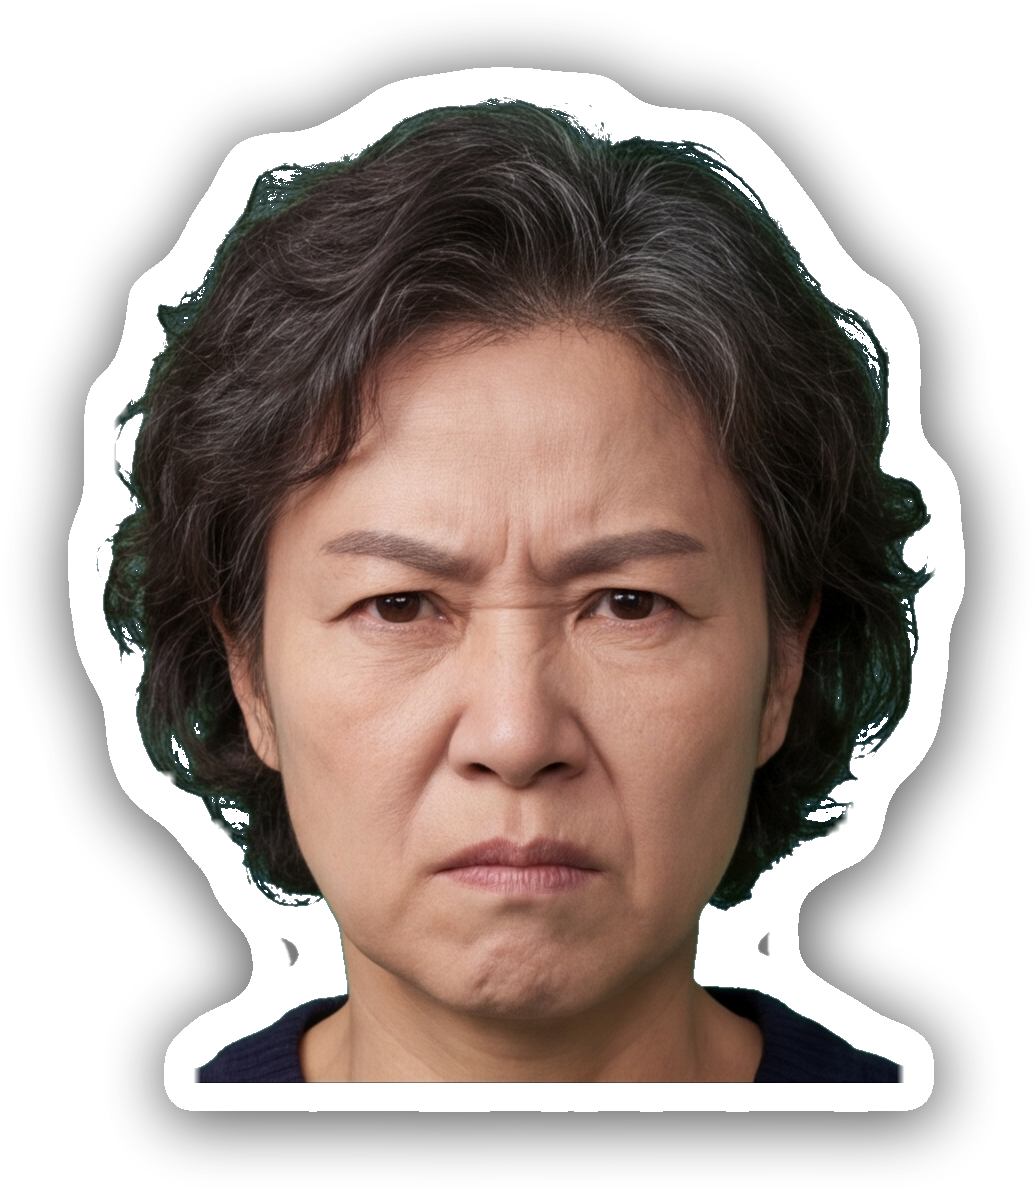
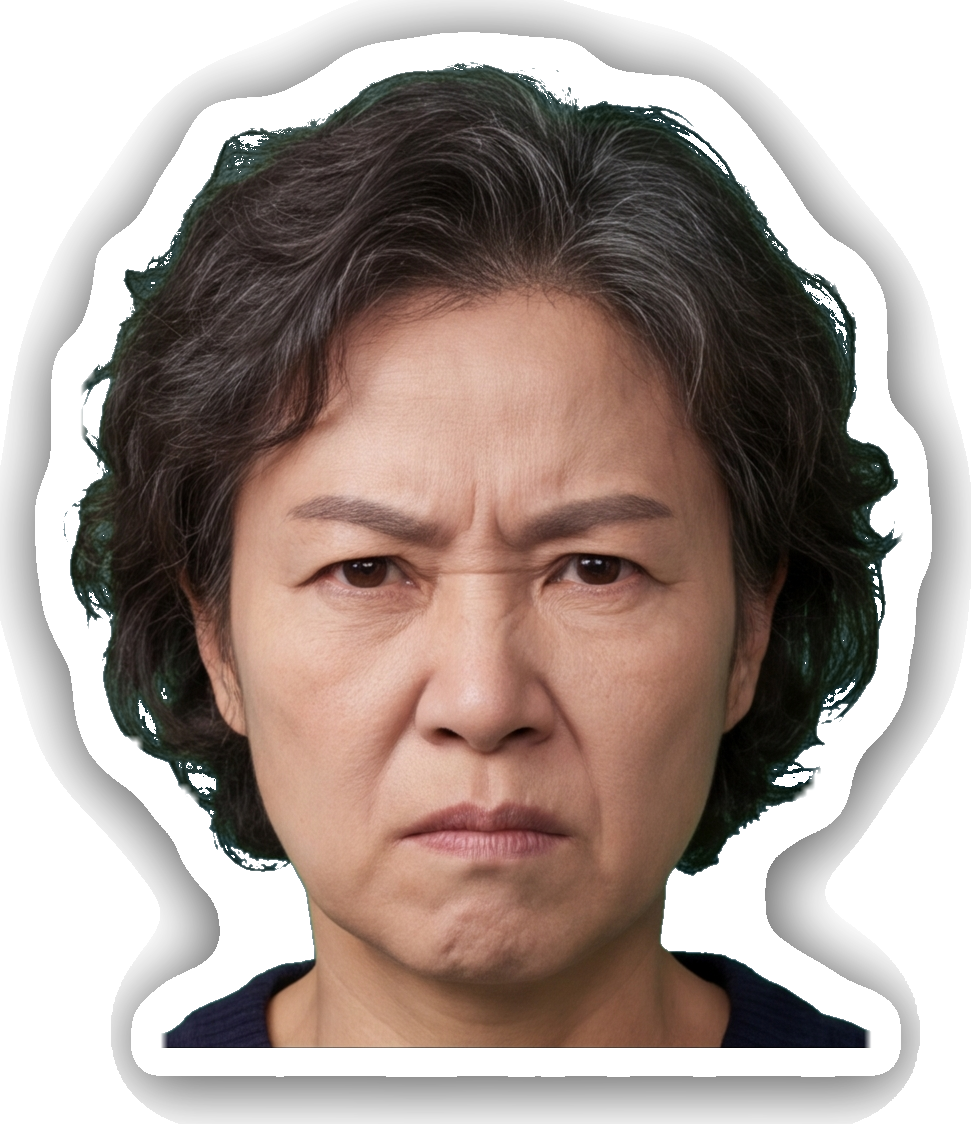
남아 있던 뾰족이의 진짜 원인 — 테두리 안에 박힌 '떨어져 나온 조각'
지난번 수정(어깨를 수평으로 자르기)으로도 뾰족한 것이 남았다.
손님이 동그라미 쳐 보낸 자리를 4배로 확대해 재 보니 원인이 달랐다.

원인
    M50B/bust_neutral 왼쪽 아래에 **가로 14 · 세로 51 픽셀짜리 짙은 조각**이,
    몸(x≥96)과 완전히 떨어진 자리(x≤79)에 박혀 있었다. 인물 시트에서 옆 사람
    옷자락이 딸려온 것이다. 38장 중 23장에 있었다.

    왜 지금까지 못 잡았나
      · 알파(투명도)만 보면 **흰 테두리가 조각과 몸통을 이어 붙여** 한 덩어리로
        보인다. 흰색을 빼고 봐야 갈라진다.
      · 테두리 두께를 실제로 재 보니 **70픽셀(키의 7%)** 이었다. 코드에 적혀
        있던 3% 는 짐작값이었다. 조각은 그 테두리 띠 **안쪽**에 들어앉아 있어서,
        '조각 주변을 오려낸다' 는 방법 자체가 통하지 않았다.

고친 것
    · drop_fragments — 흰색을 뺀 알맹이로 덩어리를 갈라 조각을 찾고,
      테두리색으로 **덮은 뒤**, 불거진 실루엣을 몸 기준으로 되돌린다.
    · 테두리 두께를 그림마다 **직접 잰다**(_outline_px). 짐작으로 잘랐다가
      11만 픽셀을 날린 적이 있어 다시는 코드에 박지 않는다.
    · 한 번으로 안 끝난다 — 큰 조각을 덮으면 가려 있던 작은 조각이 드러난다.
      한 그림당 최대 4번 돌려 다 털어낸다(실측 23장 → 1장 → 0장).

예방조치
    · despike.py --check — 고치지 않고 검사만 하고, 남아 있으면 실패로 끝낸다.
    · produce.yml 의 '화면 배치 검사'(실패하면 영상을 만들지 않는 자리)에 넣었다.
      → 다음 회차부터 뾰족이가 남아 있으면 **영상이 아예 만들어지지 않는다.**

확인
    · 23장 정리 · 검사 통과(0건) · 전신 그림은 발 밑 티끌만 빠지고 몸은 그대로
    · 손님이 동그라미 친 컷(A1-17)을 다시 그려 7배로 확대해 확인
    · 화면 배치 8항목 0건 · 컷 114개 화면 밖 이탈 없음 · 대본 45통과 0오류

Claude-Session: https://claude.ai/code/session_01Tx9MBSofUG9SuyhsNuhdXy

diff --git a/src/despike.py b/src/despike.py
@@ -1,19 +1,23 @@
 #!/usr/bin/env python3
-"""컷아웃 어깨에 솟은 조각을 없앤다.
+"""인물 컷아웃에서 **뾰족하게 튀어나온 것**을 없앤다.
 
-    python3 src/despike.py                     assets/char 전체
-    python3 src/despike.py --dry               지우지 않고 몇 개인지만 본다
+    python3 src/despike.py                     assets/char 전체를 고친다
+    python3 src/despike.py --dry               고치지 않고 몇 개인지만 본다
+    python3 src/despike.py --check             검사만 — 남아 있으면 실패로 끝낸다
     python3 src/despike.py --only M50A,M50B
 
-무엇이 문제였나
-    인물 시트에서 여러 명이 어깨를 맞대고 붙어 나오면, 세로로 잘라 떼어낼 때
-    **옆 사람의 어깨 조각이 얇게 딸려온다.** 거기에 흰 테두리가 둘러지면서
-    어깨 좌우에 위로 뾰족하게 솟은 것이 생겼다.
+세 가지 일을 한다 (셋 다 원인이 다르다)
+    ① despike()         — 옆 사람에게서 딸려온 **가는 기둥 조각**
+    ② flatten_bottom()  — 아래가 둥글게 마무리돼 어깨가 나왔다 들어가며 생긴
+                          **좌우 삼각형 삐죽이**. 가장 넓은 줄에서 수평으로 자른다.
+    ③ drop_fragments()  — 몸에서 **완전히 떨어져 나온 짙은 조각**.
+                          테두리색으로 덮고, 불거진 실루엣을 몸 기준으로 되돌린다.
 
-어떻게 없애나
-    어깨선 **위쪽**만 따로 본다. 거기에는 원래 머리 하나만 있어야 한다.
-    머리 말고 다른 덩어리가 있으면 그것이 딸려온 조각이므로 지운다.
-    어깨 아래는 손대지 않는다 — 팔·다리가 잘리면 안 되기 때문이다.
+⚠ ②만으로는 부족했다. ② 를 하고도 손님 화면에 뾰족한 것이 남아 ③ 을 만들었다.
+   ③ 의 조각은 **흰 테두리 띠 안쪽**에 들어앉아 있어서, 알파(투명도)만 보면
+   몸통과 한 덩어리로 보인다. 흰색을 빼고 봐야 갈라진다.
+
+⚠ 몇 번을 돌려도 결과가 같아야 한다 — 에셋 만들기·영상 만들기에서 매번 돈다.
 """
 import argparse
 from pathlib import Path
@@ -197,18 +201,135 @@ def flatten_bottom(sp):
     return (out.crop(nb) if nb else out), bot - wy
 
 
+# ── 몸에서 떨어져 나온 조각 ────────────────────────────────
+FRAG_MAX = 0.02         # 몸통 넓이의 2% 아래면 '조각' 이다
+FRAG_MIN_PX = 60        # 이보다 작은 티끌은 어차피 눈에 안 보인다
+OUTLINE_R = 0.032       # 흰 테두리 두께(키 대비). render.CHAR_OUTLINE 과 맞춘다
+
+
+def _content_mask(sp):
+    """흰 테두리를 뺀 **알맹이**만 남긴 마스크.
+
+    테두리가 조각과 몸통을 하얗게 이어 붙여 놓기 때문에, 알파(투명도)만 보면
+    둘이 한 덩어리로 보인다. 흰색을 빼야 비로소 따로 떨어진 것이 드러난다."""
+    r, g, b, a = sp.split()
+    white = ImageChops.multiply(
+        ImageChops.multiply(r.point(lambda v: 255 if v > 200 else 0),
+                            g.point(lambda v: 255 if v > 200 else 0)),
+        b.point(lambda v: 255 if v > 200 else 0))
+    return ImageChops.subtract(a.point(lambda v: 255 if v > 128 else 0), white)
+
+
+def _dilate(mask, radius):
+    """마스크를 radius 만큼 **둥글게** 부풀린다.
+
+    ⚠ MaxFilter(정사각형)로 부풀리면 모서리가 각져서, 잘린 자리가 네모나게
+       파여 보인다(실제로 그렇게 나와서 다시 만들었다). 흐림 + 문턱값이면
+       둥글게 퍼져 어깨선과 나란한 매끈한 곡선이 된다."""
+    return mask.filter(ImageFilter.GaussianBlur(radius * 0.62)) \
+               .point(lambda v: 255 if v > 8 else 0)
+
+
+def _outline_px(sp):
+    """이 그림의 **흰 테두리 두께**를 직접 잰다 (픽셀).
+
+    ⚠ 코드에 박아 두면 안 된다. 실측해 보니 그림마다 다르고, 짐작했던 3% 가
+       아니라 **7%(70픽셀)** 였다. 짐작으로 잘랐다가 테두리를 통째로 깎아
+       11만 픽셀이 날아간 적이 있다. 그래서 매번 잰다.
+    줄마다 '알파 끝 ~ 알맹이 끝' 거리를 재고 **가장 작은 값**들을 쓴다 —
+    옆선이 비스듬한 줄은 실제보다 크게 나오므로, 가장 곧은 줄이 참값에 가깝다."""
+    W, H = sp.size
+    a = sp.getchannel("A").point(lambda v: 255 if v > 40 else 0)
+    c = _content_mask(sp)
+    gaps = []
+    for y in range(H // 8, H - H // 12, max(1, H // 60)):
+        ab = a.crop((0, y, W, y + 1)).getbbox()
+        cb = c.crop((0, y, W, y + 1)).getbbox()
+        if ab and cb:
+            gaps += [cb[0] - ab[0], ab[2] - cb[2]]
+    gaps = sorted(g for g in gaps if g > 0)
+    if not gaps:
+        return max(4, round(H * 0.03))
+    return max(4, gaps[len(gaps) // 5])          # 아래쪽 20% 지점 값
+
+
+def drop_fragments(sp):
+    """몸에서 **떨어져 나온 조각**과 그 조각만 감싼 흰 테두리를 함께 지운다.
+
+    무엇이 문제였나
+        손님이 동그라미 쳐 보낸 것이 이것이다. 어깨를 수평으로 잘라 큰 삐죽이를
+        없앤 뒤에도 **뾰족한 것이 남아** 있었다. 실측해 보니 M50B/bust_neutral
+        왼쪽 아래에 **가로 14 · 세로 51 픽셀짜리 짙은 조각**이, 몸(x≥96)과 완전히
+        떨어진 자리(x≤79)에 박혀 있었다. 인물 시트에서 옆 사람 옷자락이 딸려온 것이다.
+
+    왜 지금까지 못 잡았나
+        알파(투명도)만 보면 못 찾는다. **흰 테두리가 조각과 몸통을 이어 붙여**
+        한 덩어리로 만들어 놓기 때문이다. 흰색을 빼고 봐야 비로소 갈라진다.
+        기존 despike() 가 세 번 헛짚은 것도 같은 이유였다.
+
+    어떻게 없애나
+        ① 흰색을 뺀 알맹이만 남겨 덩어리를 센다 → 가장 큰 것이 몸통
+        ② 몸통 넓이의 2% 도 안 되는 덩어리가 있으면 그것이 조각이다
+        ③ 조각을 **테두리와 같은 흰색으로 덮는다** → 짙은 뾰족이가 사라진다
+        ④ 알파를 **몸통에서 테두리 두께만큼 부풀린 자리**로 제한한다
+           → 조각 때문에 밖으로 불거졌던 하얀 혹도 같이 없어진다
+
+    ⚠ 지우기만 해서는 안 된다. 테두리 두께를 재 보니 **70픽셀(키의 7%)** 이라,
+       조각(몸에서 17픽셀 거리)은 **테두리 띠 안쪽**에 들어앉아 있었다.
+       그래서 '조각 주변을 오려낸다' 는 방법은 통하지 않는다 — 덮어야 한다.
+       (오려냈더니 실루엣이 네모나게 파여서 다시 만들었다.)
+
+    한 번 덮으면 조각이 사라지므로 다시 돌려도 더 할 일이 없다(같은 결과)."""
+    W, H = sp.size
+    comps = _components(_content_mask(sp), min_area=FRAG_MIN_PX)
+    if len(comps) < 2:
+        return sp, 0
+    comps.sort(key=len, reverse=True)
+    frags = [c for c in comps[1:] if len(c) < len(comps[0]) * FRAG_MAX]
+    if not frags:
+        return sp, 0
+
+    fbuf, bbuf = bytearray(W * H), bytearray(W * H)
+    for c in frags:
+        for i in c:
+            fbuf[i] = 255
+    for i in comps[0]:
+        bbuf[i] = 255
+    frag = Image.frombytes("L", (W, H), bytes(fbuf))
+    bod = Image.frombytes("L", (W, H), bytes(bbuf))
+
+    out = sp.copy()
+    # ③ 조각을 테두리색으로 덮는다. 조금 넉넉히 덮어야 가장자리 어두운 테가 안 남는다.
+    paint = _dilate(frag, max(3, round(H * 0.006)))
+    out.paste(Image.new("RGBA", sp.size, (255, 255, 255, 255)), (0, 0), paint)
+    out.putalpha(sp.getchannel("A"))
+
+    # ④ 몸통을 테두리 두께만큼 부풀린 자리까지만 남긴다 (실측 두께 × 여유)
+    keep = _dilate(bod, round(_outline_px(sp) * 1.25))
+    out.putalpha(ImageChops.darker(out.getchannel("A"), keep))
+
+    bb = out.getchannel("A").point(lambda v: 255 if v > 20 else 0).getbbox()
+    return (out.crop(bb) if bb else out), sum(len(c) for c in frags)
+
+
 def main():
     ap = argparse.ArgumentParser()
     ap.add_argument("--dry", action="store_true", help="지우지 않고 확인만")
     ap.add_argument("--only", default="", help="이 인물만 (쉼표로 구분)")
+    # ⭐ 예방조치: 만들기 전에 한 번 더 확인하는 자리에서 쓴다.
+    #    남은 것이 있으면 **실패로 끝내** 삐죽이가 영상까지 가지 못하게 막는다.
+    ap.add_argument("--check", action="store_true",
+                    help="고치지 않고 검사만 — 남은 것이 있으면 실패로 끝낸다")
     args = ap.parse_args()
+    if args.check:
+        args.dry = True
 
     files = sorted(CHAR.glob("*/*.png"))
     if args.only:
         want = {s.strip() for s in args.only.split(",") if s.strip()}
         files = [f for f in files if f.parent.name in want]
 
-    total = flat = 0
+    total = flat = frag = 0
     for f in files:
         sp = Image.open(f).convert("RGBA")
         out, n = despike(sp)
@@ -226,11 +347,34 @@ def main():
                       f"  {out.size} → {out2.size}")
                 out = out2
 
-        if out.size != sp.size and not args.dry:
+        # ⭐ 몸에서 떨어져 나온 짙은 조각 — 손님이 동그라미 쳐 보낸 바로 그것.
+        #    전신에도 생기므로 포즈를 가리지 않고 본다.
+        #
+        #    ⚠ **한 번으로 끝나지 않는다.** 큰 조각을 덮고 나면 그 뒤에 가려 있던
+        #       작은 조각이 새로 드러난다(실측: 1회차 23장 → 2회차 1장 → 3회차 0장).
+        #       한 번만 돌리면 남은 것이 그대로 영상까지 간다. 여기서 다 털어낸다.
+        npx = 0
+        for _ in range(4):
+            out3, k = drop_fragments(out)
+            if not k:
+                break
+            npx += k
+            out = out3
+        if npx:
+            frag += 1
+            print(f"  {f.parent.name}/{f.stem:14} 떨어져 나온 조각 {npx}px 덮음"
+                  f"  {sp.size} → {out.size}")
+
+        if (out.size != sp.size or out.tobytes() != sp.tobytes()) and not args.dry:
             out.save(f)
 
-    print(f"\n조각 제거 {total}장 · 어깨 삐죽이 제거 {flat}장 (전체 {len(files)}장)"
+    print(f"\n어깨 조각 {total}장 · 어깨 삐죽이 {flat}장 · 떨어져 나온 조각 {frag}장"
+          f" (전체 {len(files)}장)"
           + ("   [--dry — 저장하지 않았다]" if args.dry else ""))
+    if args.check and (total or flat or frag):
+        print("\n::error::인물 그림에 삐죽이·조각이 남아 있습니다."
+              " `python3 src/despike.py` 를 돌려 고친 뒤 다시 시도하십시오.")
+        return 1
     return 0
 
 
